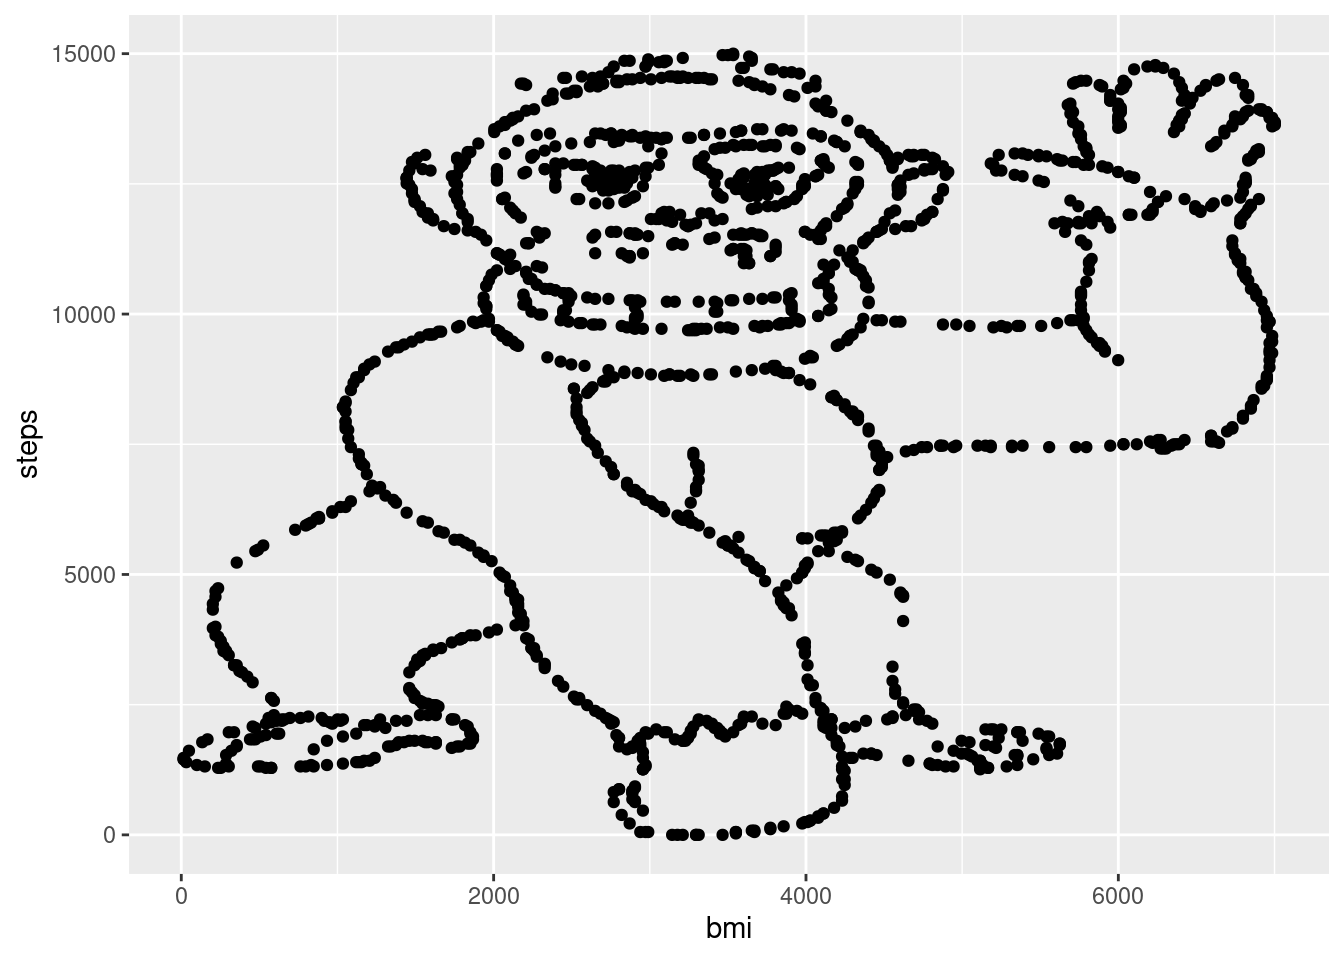
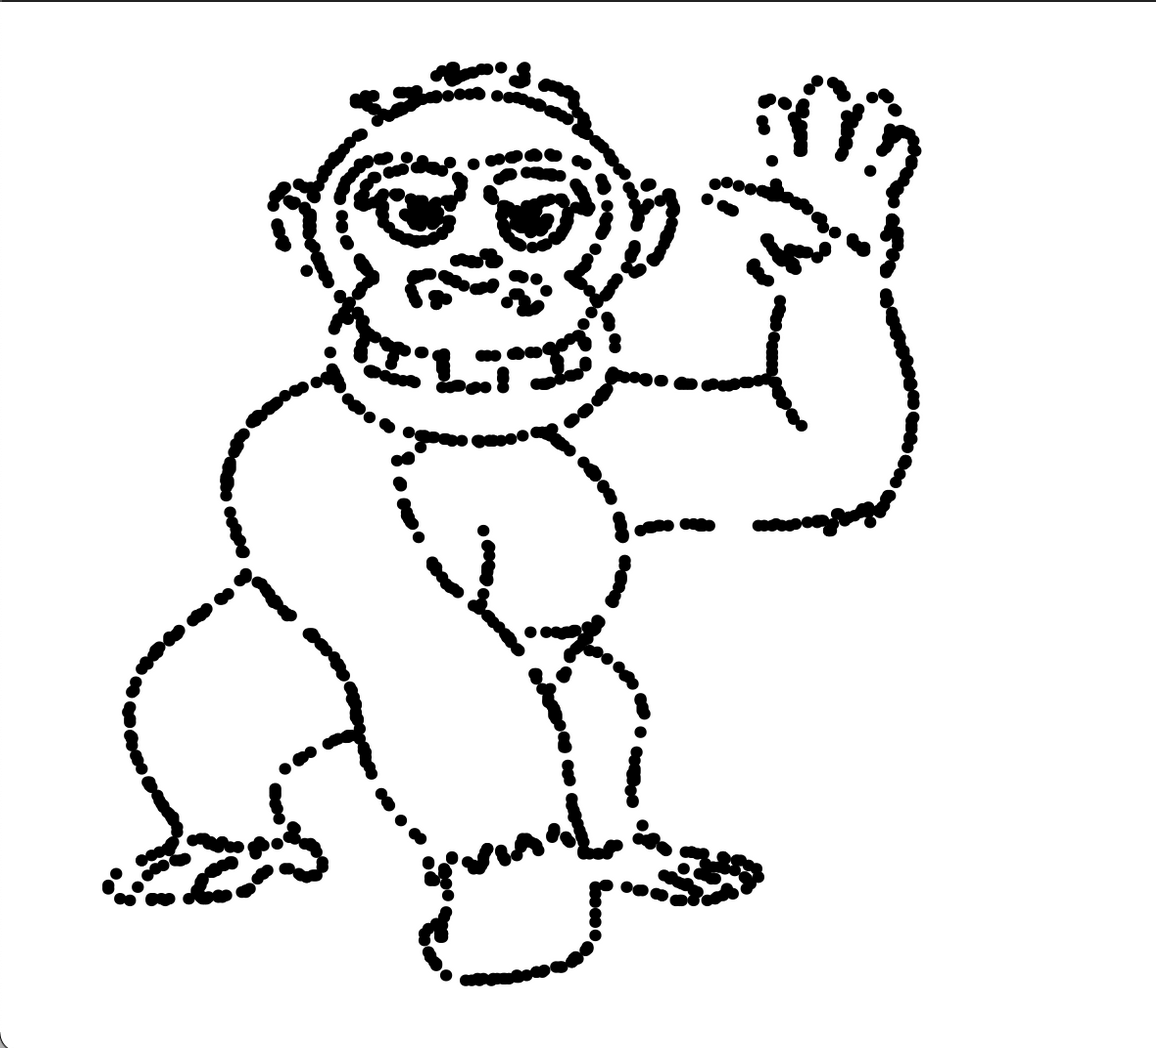
Edits to the reticulate post

diff --git a/content/blog/reticulate-data-recreation.md b/content/blog/reticulate-data-recreation.md
@@ -1,9 +1,9 @@
 ---
-title: "Creating a Dataset from an Image in R Markdown using reticulate"
+title: "Creating a Dataset From an Image in R Markdown Using reticulate"
 date: 2021-09-28
 publishdate: 2021-09-28
 tags: ["python", "ggplot2"]
-description: A recreation of a dataset using {reticulate}.
+summary: Using R and Python together with the reticulate package in an R Markdown file.
 ---
 
 <center>
@@ -57,7 +57,7 @@ Since {reticulate} is the package that allows you to call Python, if you do not 
     from PIL import Image
     ```
 
-Then, we point to the image and create coordinates pixels for the outline of the cartoon. We are able to set a threshold level for which pixels to keep/discard, which isn’t really necessary here since the image is in black and white, but I left the code in case you’d like to use an image with shading.
+Then, we point to the image and create coordinates pixels for the outline of the cartoon. We can set a threshold level for which pixels to keep/discard.
 
     ```{python}
     # Thanks to Bart Huntley for pointing out a typo previously in this chunk!
@@ -73,7 +73,7 @@ Then, we point to the image and create coordinates pixels for the outline of the
 
 ### Bring back into R
 
-This results in an NumPy ndarray called `coords` that contains the coordinates of the pixels of the outline. That’s great but… it’s in Python! How do we bring it back into R?
+This results in a NumPy ndarray called `coords` that contains the coordinates of the pixels of the outline. That’s great but… it’s in Python! How do we bring it back into R?
 
 The [{reticulate} Cheat Sheet](https://ugoproto.github.io/ugo_r_doc/pdf/reticulate.pdf) was very helpful in figuring this out. The section “Python in R Markdown” shows that you can use the `py` object to access objects created in Python chunks from R chunks.
 
@@ -109,8 +109,10 @@ Now for the fun part - visualizing the plots (spoiler: one should always do this
     ```{r}
     coords %>%
       ggplot(aes(x = bmi,
-                 y = steps)) +
-      geom_point()
+                  y = steps)) +
+      geom_point() +
+      theme_void() +
+      xlim(0, 15000)
     ```
 
 <center>
@@ -122,7 +124,9 @@ Now for the fun part - visualizing the plots (spoiler: one should always do this
       ggplot(aes(x = bmi,
                  y = steps,
                  color = gender)) +
-      geom_point()
+      geom_point() +
+      theme_void() +
+      xlim(0, 15000)
     ```
 
 With that, we’ve seamlessly gone from Python to R and created a dataset leveraging the power of both languages. Thanks to Professors Yanai and Lerche for their publication!
